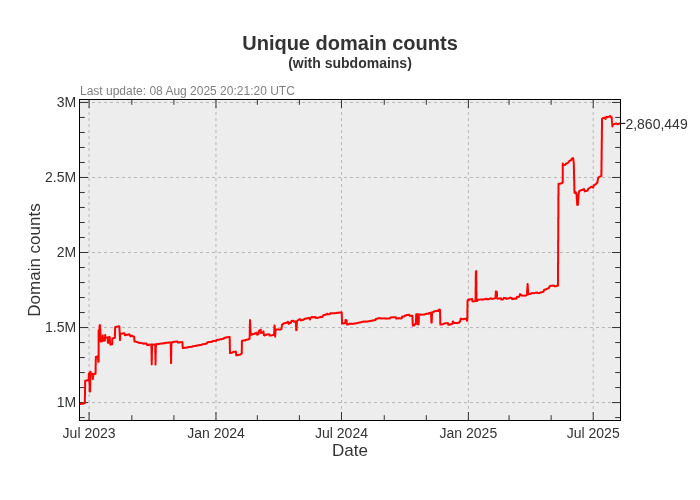
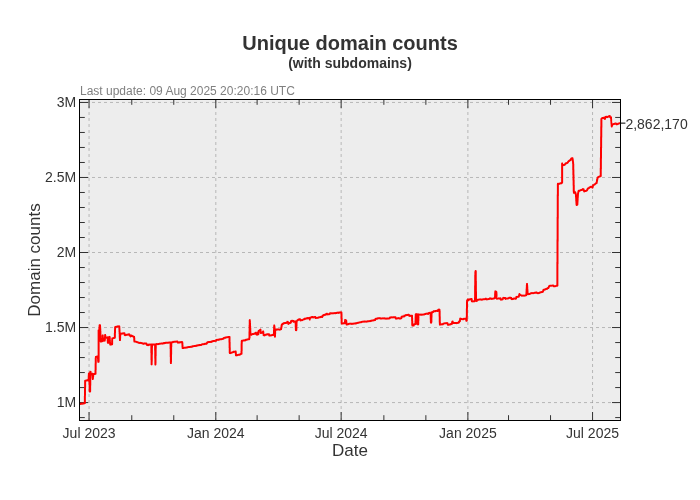
Update pages

diff --git a/README.md b/README.md
@@ -3,22 +3,22 @@ A blocklist file for blocking ads, trackers and malware domains.
 
[1 lines of base64/hex data omitted]
 
-- Unique domains: 2,860,449
-- Without subdomains: 2,180,782
-- Last update: 08 Aug 2025 20:21:20 UTC
-- Version: 2025.08.08.01
+- Unique domains: 2,862,170
+- Without subdomains: 2,182,475
+- Last update: 09 Aug 2025 20:20:16 UTC
+- Version: 2025.08.09.01
 
 
 ### Downloads:
 
 | Format             | Domain count      | Download Link |
 |:------------------ | -----------------:|:-------------:|
-| *Adblock Plus*     | 2,180,782 | [Download](https://dl.cenk.app/bad-hosts/bad-hosts-abp) |
-| *Wildcard domains* | 2,180,782 | [Download](https://dl.cenk.app/bad-hosts/bad-hosts-wildcard) |
-| *dnsmasq*          | 2,180,782 | [Download](https://dl.cenk.app/bad-hosts/bad-hosts-dnsmasq) |
-| *hosts*            | 2,860,449 | [Download](https://dl.cenk.app/bad-hosts/hosts) |
-| *hosts (ipv6)*     | 2,860,449 | [Download](https://dl.cenk.app/bad-hosts/hosts-ipv6) |
-| *Plain domains*    | 2,860,449 | [Download](https://dl.cenk.app/bad-hosts/bad-hosts-domains) |
+| *Adblock Plus*     | 2,182,475 | [Download](https://dl.cenk.app/bad-hosts/bad-hosts-abp) |
+| *Wildcard domains* | 2,182,475 | [Download](https://dl.cenk.app/bad-hosts/bad-hosts-wildcard) |
+| *dnsmasq*          | 2,182,475 | [Download](https://dl.cenk.app/bad-hosts/bad-hosts-dnsmasq) |
+| *hosts*            | 2,862,170 | [Download](https://dl.cenk.app/bad-hosts/hosts) |
+| *hosts (ipv6)*     | 2,862,170 | [Download](https://dl.cenk.app/bad-hosts/hosts-ipv6) |
+| *Plain domains*    | 2,862,170 | [Download](https://dl.cenk.app/bad-hosts/bad-hosts-domains) |
 
 ### Domain count history
 #### With subdomains
